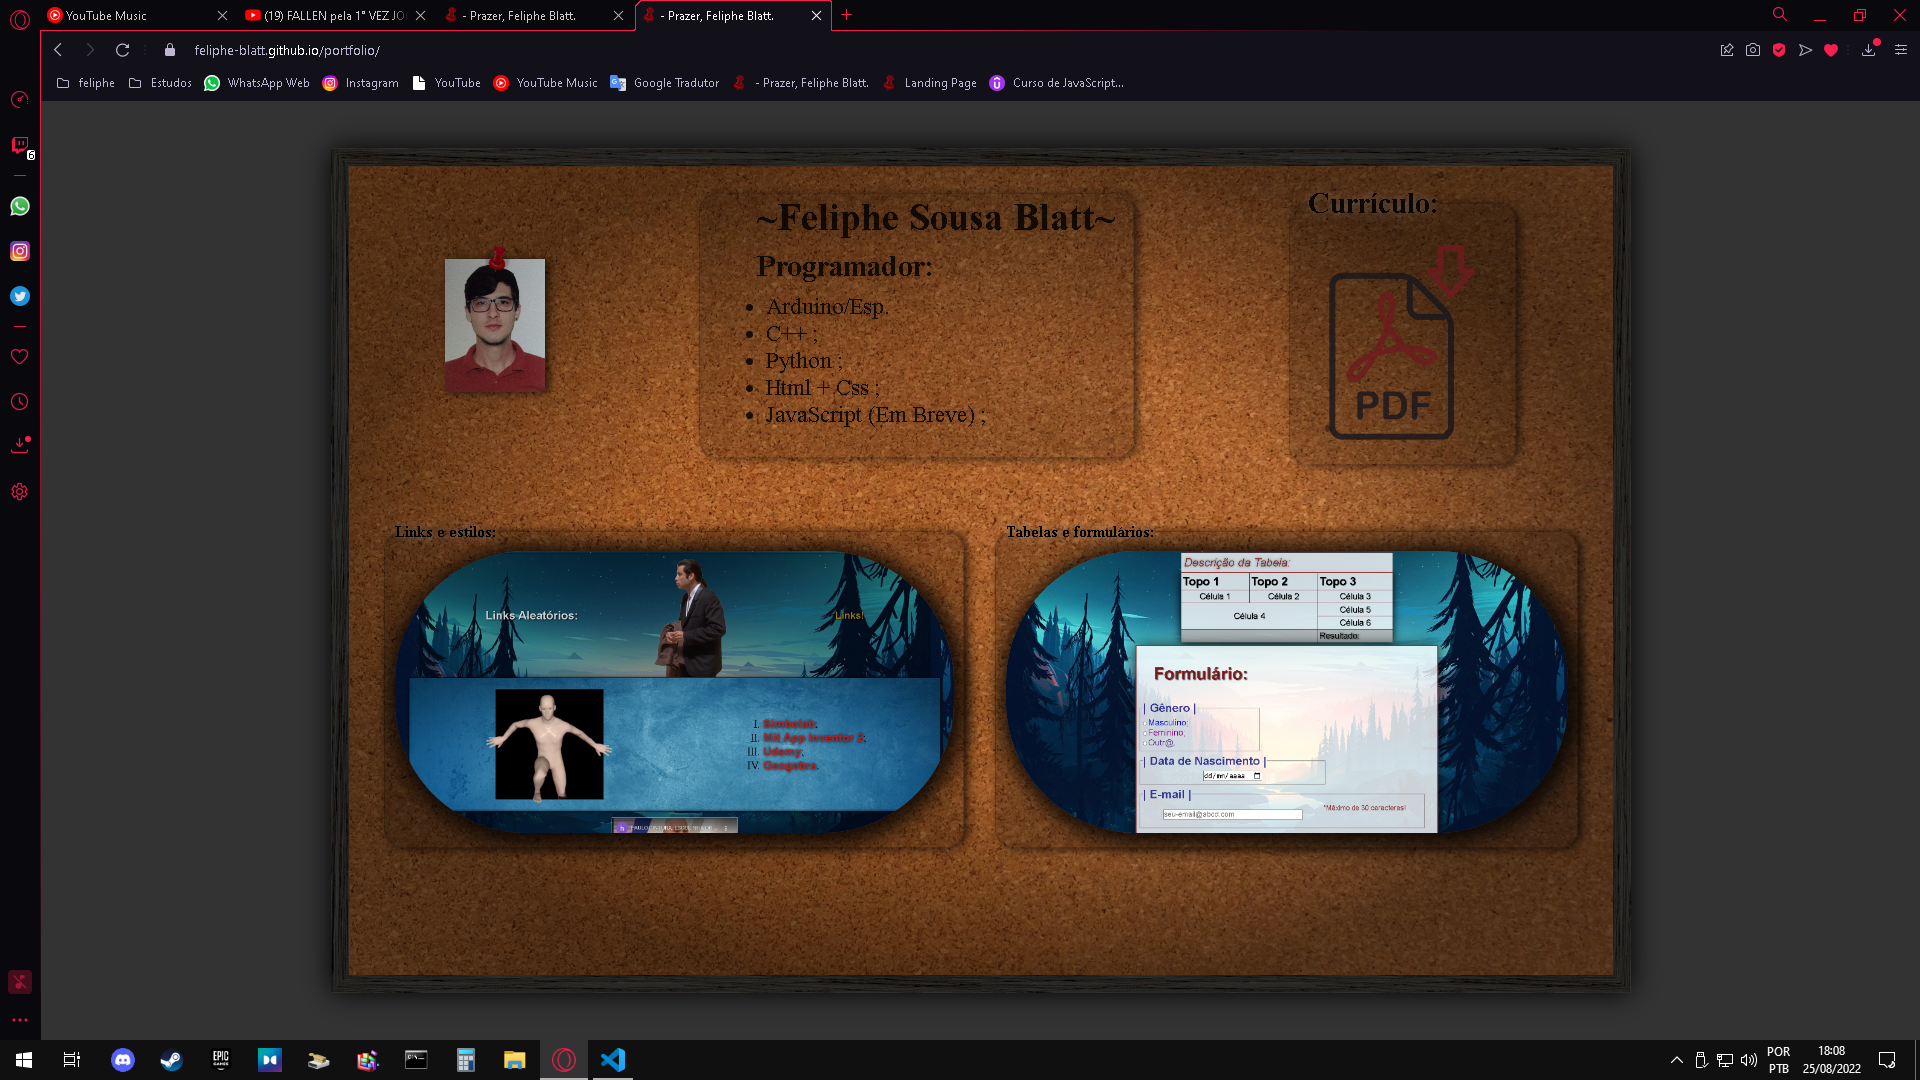
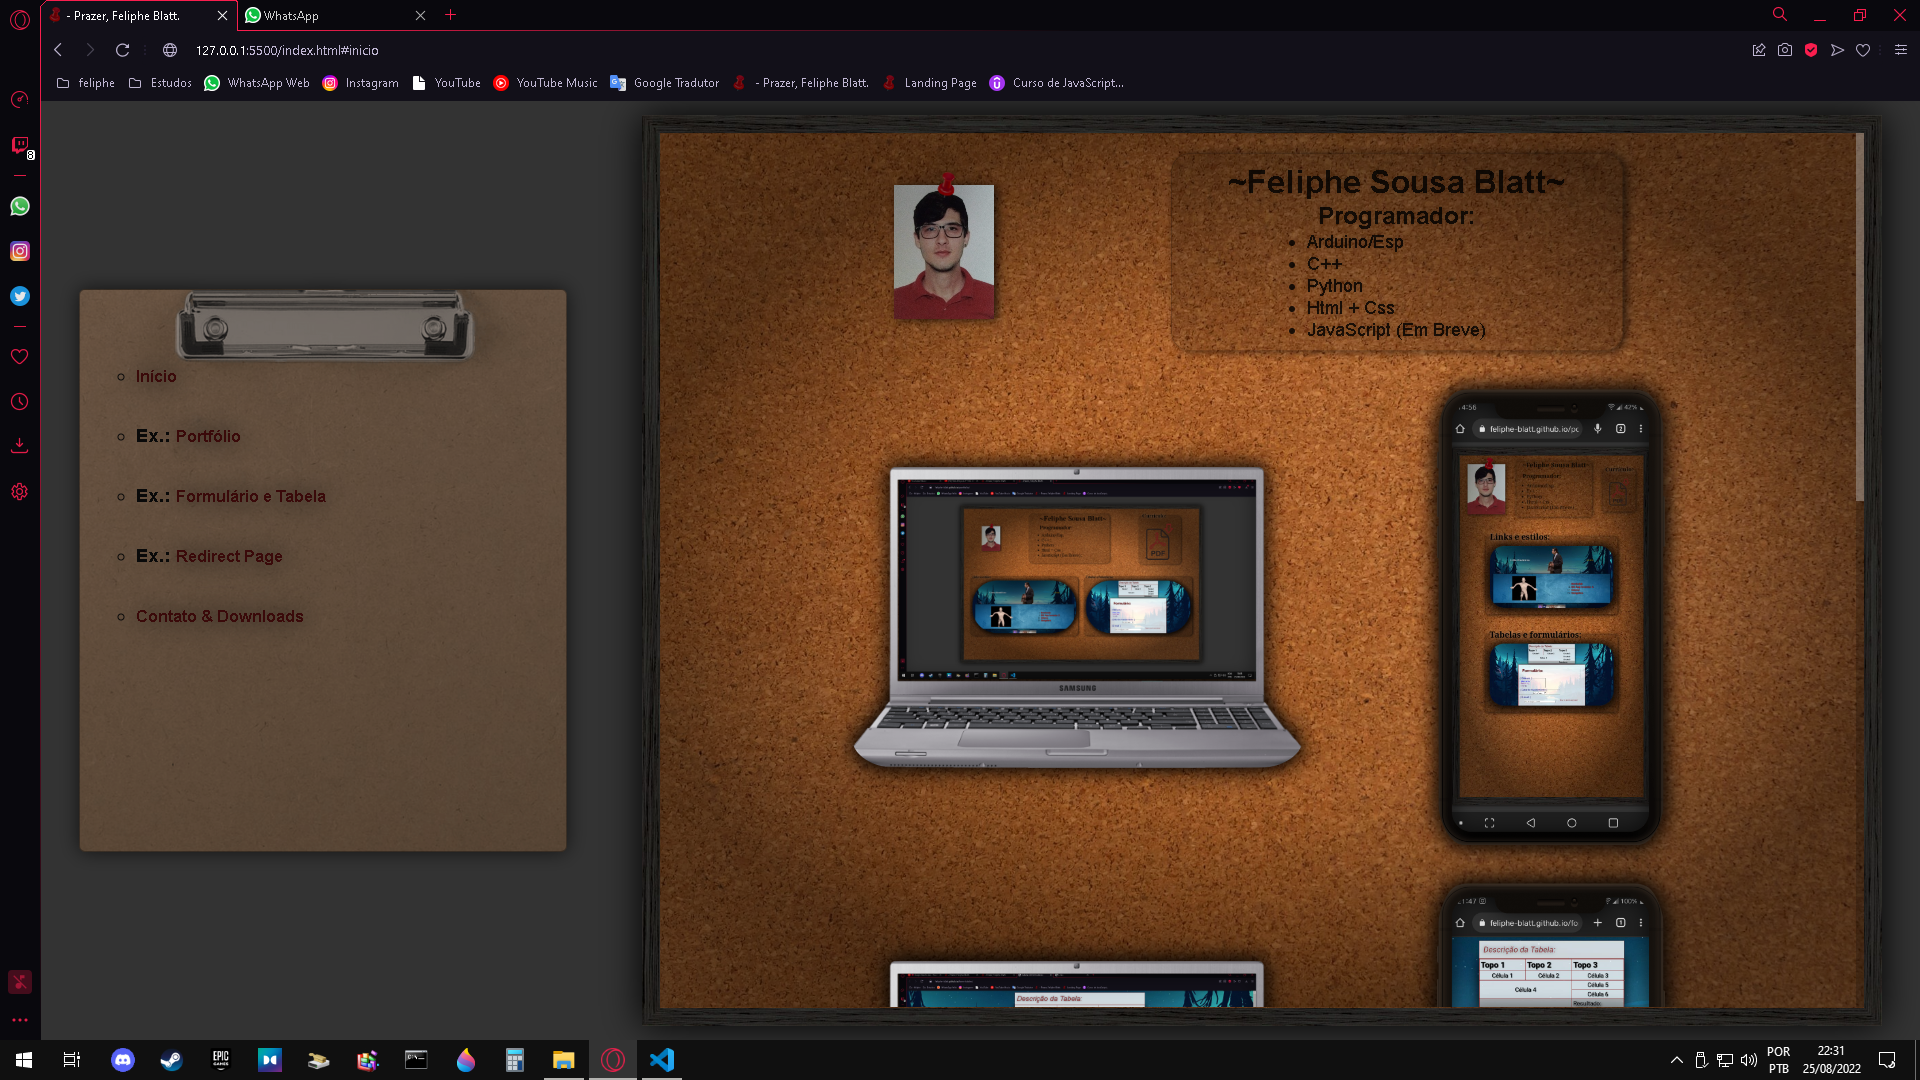
.

diff --git a/index.html b/index.html
@@ -47,28 +47,40 @@
 
             <div id="portfolio" class="exemplo-site">
                 <figure id="portfolio-desktop" class="desktop">
-                    <img src="./assets/img/notebook.png" class="site" title="Preview Versão Desktop" alt="Preview Versão Desktop do Site">
+                    <a target="_blank" href="https://feliphe-blatt.github.io/portfolio/">
+                        <img src="./assets/img/notebook.png" class="site" title="Preview Versão Desktop" alt="Preview Versão Desktop do Site">
+                    </a>
                 </figure>
                 <figure id="portfolio-mobile" class="phone">
-                    <img src="./assets/img/celular.png" class="site-mobile" title="Preview Versão Mobile" alt="Preview Versão Mobile do Site">
+                    <a target="_blank" href="https://feliphe-blatt.github.io/portfolio/">
+                        <img src="./assets/img/celular.png" class="site-mobile" title="Preview Versão Mobile" alt="Preview Versão Mobile do Site">
+                    </a>
                 </figure>
             </div>
 
             <div id="form-table" class="exemplo-site">
                 <figure id="form-desktop" class="desktop">
-                    <img src="./assets/img/notebook.png" class="site" title="Preview Versão Desktop" alt="Preview Versão Desktop do Site">
+                    <a target="_blank" href="https://feliphe-blatt.github.io/form-tables/">
+                        <img src="./assets/img/notebook.png" class="site" title="Preview Versão Desktop" alt="Preview Versão Desktop do Site">
+                    </a>
                 </figure>
                 <figure id="form-mobile" class="phone">
-                    <img src="./assets/img/celular.png" class="site-mobile" title="Preview Versão Mobile" alt="Preview Versão Mobile do Site">
+                    <a target="_blank" href="https://feliphe-blatt.github.io/form-tables/">
+                        <img src="./assets/img/celular.png" class="site-mobile" title="Preview Versão Mobile" alt="Preview Versão Mobile do Site">
+                    </a>
                 </figure>
             </div>
 
             <div id="redirect-page" class="exemplo-site">
                 <figure id="redirect-desktop" class="desktop">
-                    <img src="./assets/img/notebook.png" class="site" title="Preview Versão Desktop" alt="Preview Versão Desktop do Site">
+                    <a target="_blank" href="https://feliphe-blatt.github.io/links/">
+                        <img src="./assets/img/notebook.png" class="site" title="Preview Versão Desktop" alt="Preview Versão Desktop do Site">
+                    </a>
                 </figure>
                 <figure id="redirect-mobile" class="phone">
-                    <img src="./assets/img/celular.png" class="site-mobile" title="Preview Versão Mobile" alt="Preview Versão Mobile do Site">
+                    <a target="_blank" href="https://feliphe-blatt.github.io/links/">
+                        <img src="./assets/img/celular.png" class="site-mobile" title="Preview Versão Mobile" alt="Preview Versão Mobile do Site">
+                    </a>
                 </figure>
             </div>
 

diff --git a/assets/css/style.css b/assets/css/style.css
@@ -75,18 +75,19 @@ body {
     justify-content: center;
     align-items: center;
     position: absolute;
-    top: 6vw;
-    left: 4vw;
-}
-#secoes a {
-    text-decoration: none;
+    top: 3vw;
+    left: 3vw;
 }
 #secoes li {
     list-style: circle;
     font-family: sans-serif;
-    font-size: 1.6vw;
     font-weight: bold;
-    padding: 5% 0vw;
+    font-size: large;
+    padding: 10% 0vw;
+}
+#secoes a {
+    text-decoration: none;
+    font-size: medium;
 }
 #secoes a:link {
     color: rgb(80, 0, 0);
@@ -157,11 +158,11 @@ body {
     font-weight: bolder;
 }
 .topico {
-    font-size: normal;
+    font-size: x-large;
     font-weight: bolder;
 }
 .detalhes {
-    font-size: normal;
+    font-size: large;
     font-weight: normal;
 }
 /*~~~~~~~~~~~~~~~~~~~~~~~~~~~~~~~~~~~~~~~~~~~~~~~~~~~~~~~~~~~~~~~~~~~~~~~~~~~~~~~~~~~~~*/
@@ -244,8 +245,8 @@ body {
     box-shadow: .2vw .1vh 1vh rgba(0, 0, 0, 0.7);
     border-radius: 1vw;
     border: solid .1vh rgba(0, 0, 0, .2);
-    font-size: 3vw;
     font-weight: bold;
+    font-size: xx-large;
     text-shadow: 0vw 0vh 1vh rgba(255, 255, 255, 0.3);
     transition: all 200ms ease-in-out;
 }
@@ -259,8 +260,8 @@ body {
     border-radius: 1vw;
     padding: 0vh 1vw;
     opacity: .9;
-    font-size: 2.4vw;
-    font-weight: bold;
+    font-weight: bolder;
+    font-size: x-large;
     background-color: rgba(0, 0, 0, 0.2);
     box-shadow: .2vw .1vh 1vh rgba(0, 0, 0, 0.7);
     border: solid .1vh rgba(0, 0, 0, .2);
@@ -287,12 +288,12 @@ body {
     }
     #prancheta {
         margin: 2vh;
-        height: 30vw;
-        width: 30vw;
+        height: 48vw;
+        width: 50vw;
     }
     #secoes {
-        top: 4vw;
-        left: 4vw;
+        top: 7vw;
+        left: 5vw;
     }
     #secoes li {
         font-size: 2vw;
